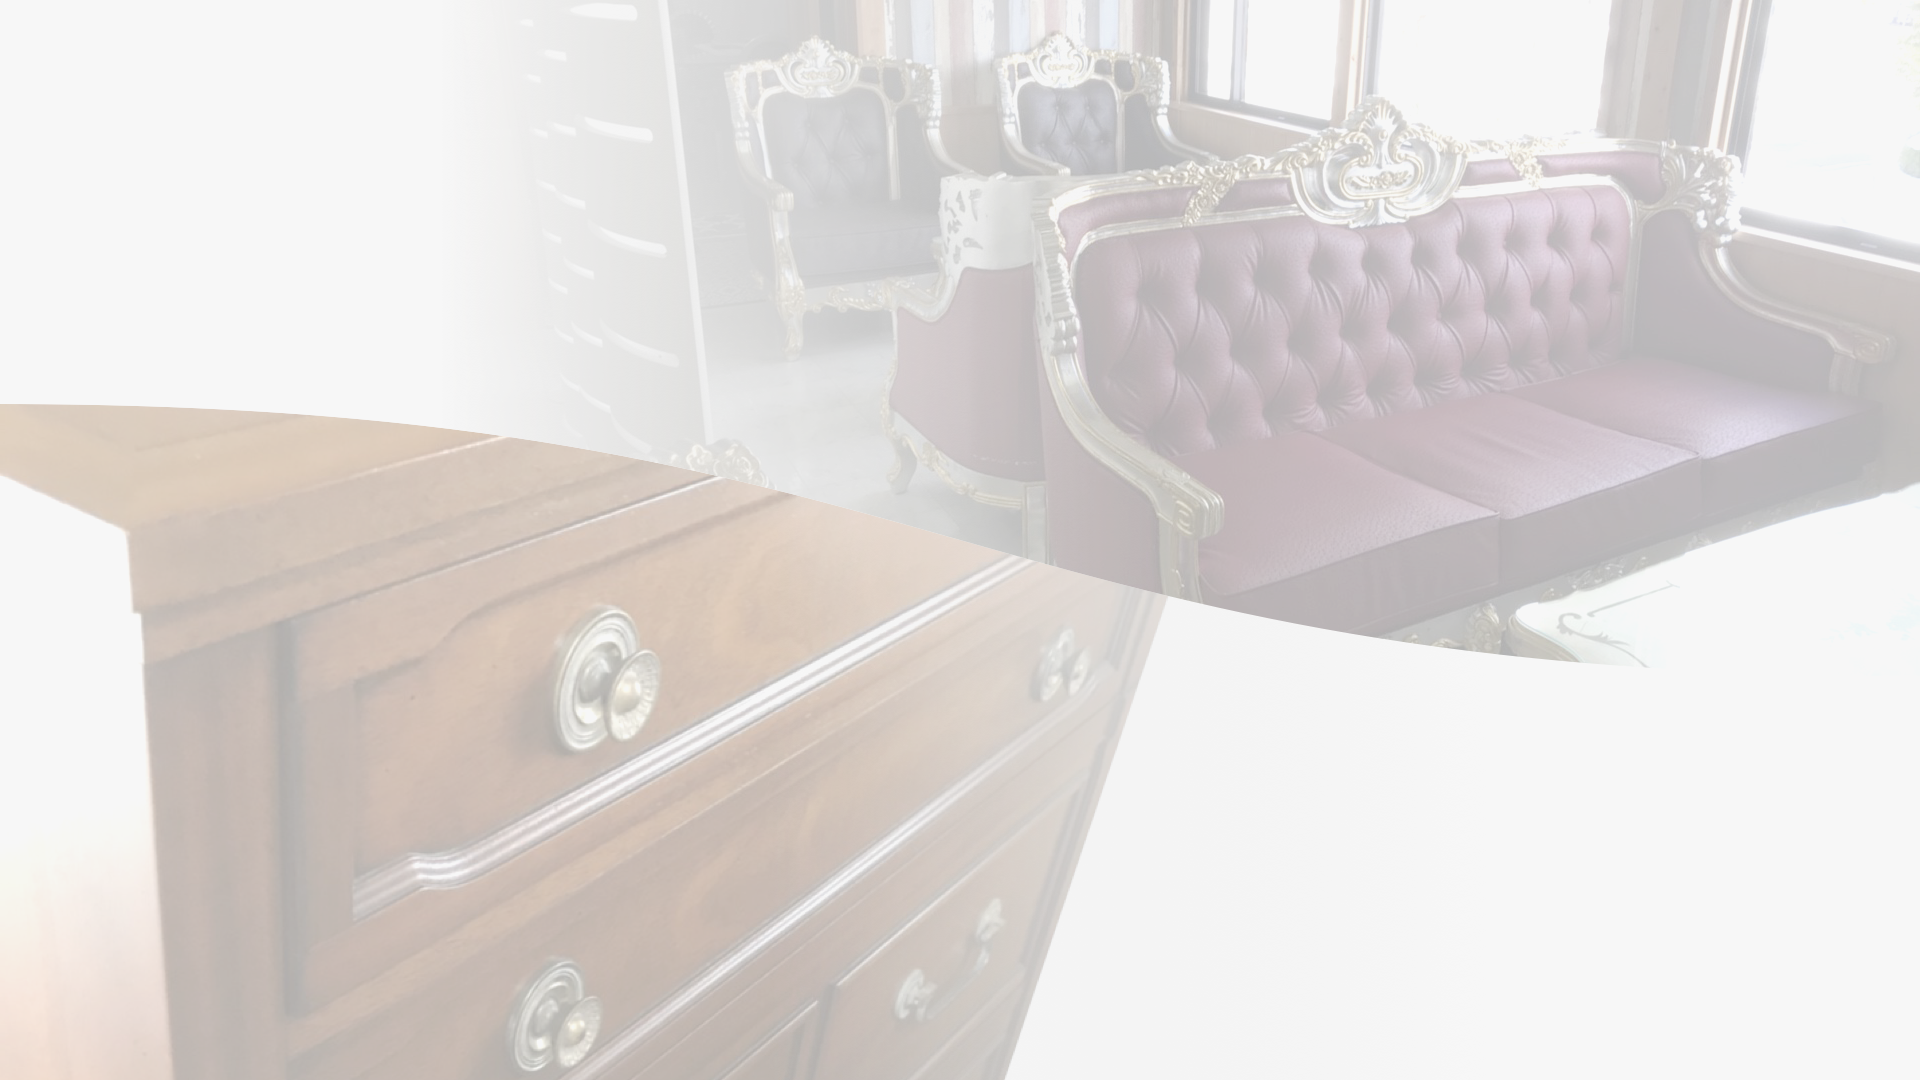
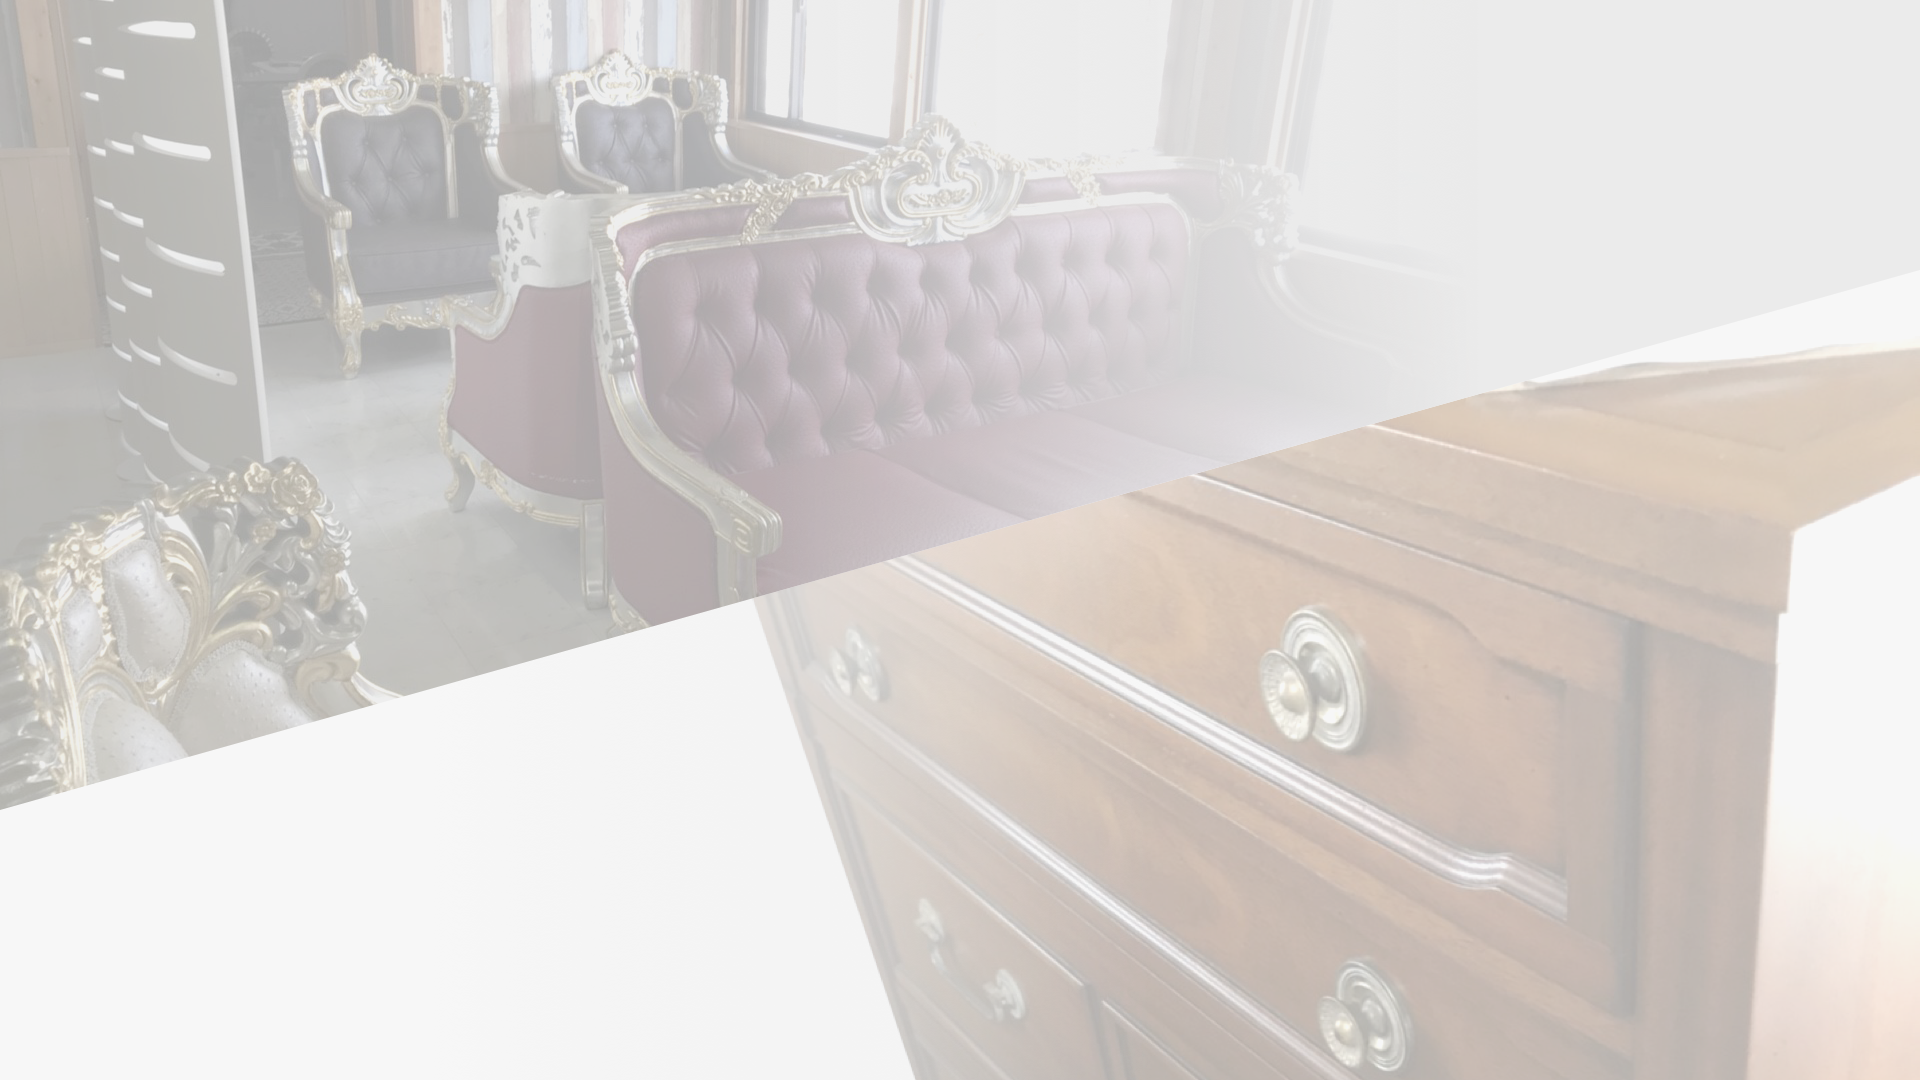
改修

diff --git a/style.css b/style.css
@@ -304,7 +304,7 @@ a {
     display: none; } }
 
 .hero {
-  height: 400px;
+  height: 300px;
   background: radial-gradient(#dfdfdf, #f3f3f3);
   text-align: center;
   width: 100%;
@@ -330,7 +330,8 @@ a {
     width: 100%;
     background-position: center center;
     background-repeat: no-repeat;
-    z-index: 9; }
+    z-index: 9;
+    background-size: cover; }
 
 @media only screen and (max-width: 768px) {
   .hero-wrap {
@@ -542,10 +543,10 @@ a {
   color: #fff;
   display: inline-block;
   border-radius: 4px;
-  text-align: center; }
+  text-align: center;
+  width: 180px; }
   .button-ghost {
     padding: 7px 30px;
-    width: 180px;
     background-color: transparent;
     color: #00897B;
     border: 1px solid #00897B; }
@@ -909,25 +910,69 @@ button {
   .feature-wrap {
     display: flex; }
   .feature-section {
+    position: relative;
     display: block;
+    overflow: hidden;
+    height: 200px;
     width: 50%;
     border-radius: 4px;
     margin: 30px 40px 0 0;
-    padding: 40px 30px;
     background: #fff; }
     .feature-section:nth-child(even) {
       margin-right: 0; }
-  .feature-selectionTitle {
+  .feature-sectionGradation {
+    height: 100%;
+    width: 100%;
+    position: absolute;
+    display: flex;
+    align-items: center; }
+  .feature-sectionWrap {
+    height: auto;
+    margin-left: 40px;
+    z-index: 99999; }
+  .feature-sectionTitle {
     font-size: 1.44rem;
     color: #101010;
     margin-bottom: 20px; }
+  .feature-image {
+    width: 50%;
+    position: absolute;
+    height: 100%;
+    right: 0;
+    overflow: hidden; }
+  .feature-imageGradation {
+    position: absolute;
+    width: 100%;
+    height: 100%;
+    right: 0;
+    z-index: 999;
+    background: linear-gradient(to right, #fff, rgba(255, 255, 255, 0)); }
+    .feature-imageGradation::before {
+      content: "";
+      width: 100%;
+      height: 100%;
+      background: rgba(255, 255, 255, 0.3);
+      position: absolute;
+      z-index: 999; }
+  .feature img {
+    width: auto;
+    height: auto;
+    min-width: 100%;
+    min-height: 100%;
+    max-width: inherit;
+    position: absolute;
+    left: 50%;
+    top: 50%;
+    transform: translate(-50%, -50%); }
 
 @media only screen and (max-width: 768px) {
   .feature-wrap {
     flex-wrap: wrap; }
   .feature-section {
     margin-right: 0;
-    width: 100%; } }
+    width: 100%; }
+  .feature-sectionWrap {
+    margin-left: 20px; } }
 
 .title-underLine {
   font-size: 1.44rem;

diff --git a/sass/object/compornent/_feature.scss b/sass/object/compornent/_feature.scss
@@ -6,21 +6,81 @@
   }
 
   &-section {
+    position: relative;
     display: block;
+    overflow: hidden;
+    height: 200px;
     width: 50%;
     border-radius: 4px;
     margin: 30px 40px 0 0;
-    padding: 40px 30px;
+    // padding: 40px 30px;
     background: $color-base;
 
     &:nth-child(even) {
       margin-right: 0;
     }
   }
-  &-selectionTitle {
+  &-sectionGradation {
+    height: 100%;
+    width: 100%;
+    position: absolute;
+    display: flex;
+    align-items: center;
+  }
+
+  &-sectionWrap {
+    height: auto;
+    margin-left: 40px;
+    z-index: 99999;
+  }
+
+  &-sectionTitle {
     font-size: $fontSize-L;
     color: $color-text;
     margin-bottom: 20px;
+  }
+
+  &-image {
+    width: 50%;
+    position: absolute;
+    height: 100%;
+    right: 0;
+    overflow: hidden;
+  }
+
+  &-imageGradation {
+    position: absolute;
+    width: 100%;
+    height: 100%;
+    right: 0;
+    z-index: 999;
+    background: linear-gradient(to right, #fff, rgba(255, 255, 255, 0));
+
+    &::before {
+      content: "";
+      width: 100%;
+      height: 100%;
+      background: rgba(255, 255, 255, 0.3);
+      position: absolute;
+      z-index: 999;
+    }
+  }
+
+  img {
+    width: auto;
+    height: auto;
+    min-width: 100%;
+    min-height: 100%;
+    max-width: inherit;
+    position: absolute;
+    left: 50%;
+    top: 50%;
+    transform: translate(-50%, -50%);
+    // -webkit-filter: grayscale(100%);
+    // -moz-filter: grayscale(100%);
+    // -ms-filter: grayscale(100%);
+    // -o-filter: grayscale(100%);
+    // filter: grayscale(100%);
   }
 }
 
@@ -36,6 +96,9 @@
     &-section {
       margin-right: 0;
       width: 100%;
+    }
+    &-sectionWrap {
+      margin-left: 20px;
     }
   }
 }

diff --git a/sass/object/compornent/_Hero.scss b/sass/object/compornent/_Hero.scss
@@ -1,5 +1,5 @@
 .hero {
-  height: 400px;
+  height: 300px;
   background: radial-gradient(#dfdfdf, #f3f3f3);
   text-align: center;
   width: 100%;
@@ -53,6 +53,7 @@
     background-position: center center;
     background-repeat: no-repeat;
     z-index: 9;
+    background-size: cover;
   }
 }
 

diff --git a/sass/object/compornent/_button.scss b/sass/object/compornent/_button.scss
@@ -5,10 +5,10 @@
   display: inline-block;
   border-radius: 4px;
   text-align: center;
+  width: 180px;
 
   &-ghost {
   padding: 7px 30px;
-  width: 180px;
   background-color: transparent;
   color: $color-bland;
   border: 1px solid $color-bland;

diff --git a/template-parts/feature.php b/template-parts/feature.php
@@ -2,13 +2,57 @@
   <div class="section-wrapper">
     <h2 class="title-underLine">買取特集</h2>
     <div class="feature-wrap">
-      <a class="feature-section">
-        <div class="feature-selectionTitle">婚礼家具買取<br>無料引き取り強化中</div>
-        <div class="button button-ghost">詳細はこちら</div>
+      <a class="feature-section" href="/index.php?page_id=4">
+        <div class="feature-sectionGradation">
+          <div class="feature-sectionWrap">
+            <div class="feature-sectionTitle">
+              <?php
+              $page_id = 4;
+              $content = get_page($page_id);
+              //タイトルの出力
+              echo $content -> post_title;
+              ?>
+            </div>
+            <div class="button button-ghost">詳細はこちら</div>
+          </div>
+        </div>
+        <div class="feature-image">
+          <div class="feature-imageGradation"></div>
+          <?php
+          $page_id = 4;
+          $content = get_page($page_id);
+          //アイキャッチ（サムネイル）の取得
+          $image_id = get_post_thumbnail_id();
+          $image_url = wp_get_attachment_image_src($image_id, true);
+          echo get_the_post_thumbnail($content->ID);
+          ?>
+        </div>
       </a>
-      <a class="feature-section">
-        <div class="feature-selectionTitle">大型家具<br>一斉引き取り歓迎</div>
-        <div class="button button-ghost">詳細はこちら</div>
+      <a class="feature-section" href="/index.php?page_id=16">
+        <div class="feature-sectionGradation">
+          <div class="feature-sectionWrap">
+            <div class="feature-sectionTitle">
+              <?php
+              $page_id = 16;
+              $content = get_page($page_id);
+              //タイトルの出力
+              echo $content -> post_title;
+              ?>
+            </div>
+            <div class="button button-ghost">詳細はこちら</div>
+          </div>
+        </div>
+        <div class="feature-image">
+          <div class="feature-imageGradation"></div>
+          <?php
+          $page_id = 16;
+          $content = get_page($page_id);
+          //アイキャッチ（サムネイル）の取得
+          $image_id = get_post_thumbnail_id();
+          $image_url = wp_get_attachment_image_src($image_id, true);
+          echo get_the_post_thumbnail($content->ID);
+          ?>
+        </div>
       </a>
     </div>
   </div>

diff --git a/index.php b/index.php
@@ -34,27 +34,23 @@ get_header(); ?>
 	<?php get_template_part( 'template-parts/feature' ); ?>
 
 	<div class="section">
-		<?php $categories = get_categories(); foreach($categories as $category) :?>
 			<div class="section-inner">
 				<div class="section-innerWrap">
 					<div class="section-titleWrap">
-						<h2 class="title-underLine"><?php echo $category->cat_name; ?></h2>
-						<p class="section-read"><?php echo $category->category_description; ?></p>
+						<h2 class="title-underLine">買い取り実績</h2>
 					</div>
 					<ul class="articleList">
-						<?php query_posts('showposts=6&cat='.$category->cat_ID);
-						if (have_posts()) : while (have_posts()) : the_post(); ?>
+						<?php if(have_posts()) : while(have_posts()) : the_post(); ?>
 
 							<?php get_template_part( 'template-parts/articleList' ); ?>
 
 						<?php endwhile; endif; ?>
 					</ul>
-					<div class="button-wrapper">
-						<a class="button button-ghost" href="<?php echo get_category_link($category->cat_ID);?>">もっと見る</a>
-					</div>
+					<!-- <div class="button-wrapper">
+						<a class="button button-ghost" href="">もっと見る</a>
+					</div> -->
 				</div>
 			</div>
-		<?php endforeach; ?>
 	</div>
 <?php
 // get_sidebar();

diff --git a/template-parts/cvArea.php b/template-parts/cvArea.php
@@ -3,6 +3,6 @@
   <a class="button cvArea-button" href="tel:07053475596">電話で相談する</a>
   <div class="cvArea-wrap">
     <a class="button button-ghost cvArea-button" href="https://line.me/ti/p/Lhx35etWMf">LINEで相談する</a>
-    <a class="button button-ghost cvArea-button" href="">メールで相談する</a>
+    <a class="button button-ghost cvArea-button" href="/index.php?page_id=40">メールで相談する</a>
   </div>
 </div>
